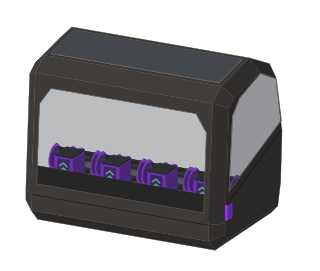
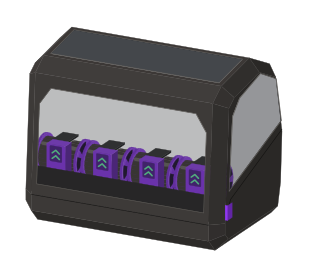
feat(unit-art): draw the Quattro Box front drive drums as the real ones
Each lane's front roller is a 60 mm black rubber drum the feeder straddles,
with a spoked purple flange at each outer end and a gap between lanes, set
where the spool rests on it. The feeder is a shallow block with its black cap
reaching back over the drum. kit.roller can now leave off its right flange.

Changed region(s): [[0.0938, 0.4723, 0.6562, 0.7085], [0.7188, 0.6199, 0.75, 0.7085]]

diff --git a/scripts/unit_art/units/quattro_box.py b/scripts/unit_art/units/quattro_box.py
@@ -4,6 +4,7 @@
 Proportions come from the open-source v2 design (Batalhoti/QuattroBox): its base, panel
 cut files and renders. 1.0 is 400 mm.
 """
+import math
 from pathlib import Path
 
 from .. import feeder, kit, spool
@@ -41,14 +42,22 @@ SPOOL_R = 0.25
 SPOOL_Y, SPOOL_Z = 156 * MM, 199 * MM + FOOT
 ROLLER_R = 20 * MM
 ROLLER_Z = 95 * MM + FOOT
-ROLLER_FRONT_Y, ROLLER_REAR_Y = SPOOL_Y - 60 * MM, SPOOL_Y + 60 * MM
-FEEDER_Y0, FEEDER_Y1 = 52 * MM, 98 * MM
-FEEDER_Z0, FEEDER_Z1 = 70 * MM + FOOT, 118 * MM + FOOT
+ROLLER_REAR_Y = SPOOL_Y + 60 * MM
+# The front drum is the drive roller: as tall as the feeder block that straddles it, and
+# placed so the spool rests on it.
+FRONT_R = 30 * MM
+FRONT_Z = 118 * MM + FOOT
+FRONT_Y = SPOOL_Y - ((SPOOL_R + FRONT_R) ** 2 - (SPOOL_Z - FRONT_Z) ** 2) ** 0.5
+# The feeder's front block stands before the drum; its black cap reaches back over the drum's top.
+FEEDER_Y0, FEEDER_Y1 = 22 * MM, 46 * MM
+CAP_Y1 = 80 * MM
+FEEDER_Z0, FEEDER_Z1 = 92 * MM + FOOT, 152 * MM + FOOT
 # The tray's lid stands on the feeder row.
-FEED_TOP = FEEDER_Z1
+FEED_TOP = 118 * MM + FOOT
 
 BODY, INSIDE, ACCENT, ACCENT_DARK, GLOW, GLASS = "#3b3836", "#1a1918", "#7b2fd0", "#4a1d84", "#62e6a0", "#2c2f34"
 ROLLER = "#1e1d1c"
+RUBBER = "#3d3733"
 EDGE = "#5d5a56"
 TRAY_PX_PER_UNIT = 46.2 / SPOOL_R
 _REPO = Path(__file__).resolve().parents[3]
@@ -126,20 +135,40 @@ def _rollers(sc, xc, y):
     kit.roller(sc, xc + half, xc + reach, y, ROLLER_Z, ROLLER_R, ROLLER, ACCENT, **rim)
 
 
+def _spokes(sc, x, y, z, r):
+    """The open spokes of a flange's outer face: dark windows between five arms."""
+    for k in range(5):
+        a0, a1 = 2 * math.pi * k / 5 + 0.22, 2 * math.pi * (k + 1) / 5 - 0.22
+        arc = [a0 + (a1 - a0) * i / 6 for i in range(7)]
+        pts = [(r * 0.9 * math.cos(a), r * 0.9 * math.sin(a)) for a in arc]
+        pts += [(r * 0.45 * math.cos(a), r * 0.45 * math.sin(a)) for a in reversed(arc)]
+        sc.poly([(x, y + a, z + b) for a, b in pts], "#1b0f2c")
+
+
+def _front_rollers(sc, xc, detail):
+    """One lane's drive drum: black rubber either side of its feeder, a purple flange at each outer end."""
+    half, reach, flange_w = 0.04, PITCH / 2 - 0.024, 0.012
+    rim = {"flange_k": 1.2, "flange_w": flange_w, "sheen": "#7a746e", "end_face": ACCENT, "end_hub": ACCENT_DARK, "solid": True}
+    kit.roller(sc, xc - reach, xc - half, FRONT_Y, FRONT_Z, FRONT_R, RUBBER, ACCENT, right_flange=False, **rim)
+    kit.roller(sc, xc + half, xc + reach, FRONT_Y, FRONT_Z, FRONT_R, RUBBER, ACCENT, left_flange=False, **rim)
+    if detail:
+        _spokes(sc, xc + reach + flange_w + 0.001, FRONT_Y, FRONT_Z, FRONT_R * 1.2)
+
+
 def _feeder(sc, xc, detail):
     """One lane's drive in front of its rollers: a purple block, a black cap and its LED button."""
     half = 0.046
     cap = 0.008
+    feeder.box(sc, xc - half + 0.008, xc + half - 0.008, FEEDER_Y0 + 0.006, CAP_Y1, FEEDER_Z1 - cap, FEEDER_Z1, "#202020")
     feeder.box(sc, xc - half, xc + half, FEEDER_Y0, FEEDER_Y1, FEEDER_Z0, FEEDER_Z1 - cap, ACCENT)
-    feeder.box(sc, xc - half + 0.004, xc + half - 0.004, FEEDER_Y0 + 0.006, FEEDER_Y1, FEEDER_Z1 - cap, FEEDER_Z1, "#202020")
     y = FEEDER_Y0 - 0.001
-    sc.poly(kit.rrect_front(xc - 0.03, xc + 0.03, FEEDER_Z0 + 0.03, FEEDER_Z1 - cap - 0.008, 0.006, y), ACCENT_DARK)
+    sc.poly(kit.rrect_front(xc - 0.03, xc + 0.03, FEEDER_Z0 + 0.062, FEEDER_Z1 - cap - 0.006, 0.006, y), ACCENT_DARK)
     if detail:
-        for dz in (0.0, 0.024):
-            z = FEEDER_Z0 + 0.048 + dz
+        for dz in (0.0, 0.026):
+            z = FEEDER_Z0 + 0.076 + dz
             sc.line([(xc - 0.018, y - 0.001, z), (xc, y - 0.001, z + 0.015), (xc + 0.018, y - 0.001, z)], GLOW, 0.007)
     else:
-        sc.poly(kit.rrect_front(xc - 0.018, xc + 0.018, FEEDER_Z0 + 0.045, FEEDER_Z1 - 0.022, 0.004, y - 0.001), GLOW)
+        sc.poly(kit.rrect_front(xc - 0.018, xc + 0.018, FEEDER_Z0 + 0.075, FEEDER_Z1 - 0.02, 0.004, y - 0.001), GLOW)
 
 
 def _strip(sc, cam, edge, x0, x1, hole=None, to3=None):
@@ -211,7 +240,7 @@ def draw_art(sc, colors, tier):
 
     sc.layer = "front"
     for xc in centers():
-        _rollers(sc, xc, ROLLER_FRONT_Y)
+        _front_rollers(sc, xc, detail)
     for xc in centers():
         _feeder(sc, xc, detail)
     # The base's slanted front under the feeder row, inside the lid.

diff --git a/scripts/unit_art/kit.py b/scripts/unit_art/kit.py
@@ -202,8 +202,8 @@ def _roller_end(sc, x, y, z, r, face, hub):
         sc.poly([(x, a, b) for a, b in circle_yz(y, z, r * 0.42)], hub)
 
 
-def roller(sc, x0, x1, y, z, r, color, flange, flange_k=1.18, flange_w=0.016, left_flange=True, sheen=None, end_face=None, end_hub=None, solid=False):
-    """A drum along x, flanged at its right end and, unless told not to, its left.
+def roller(sc, x0, x1, y, z, r, color, flange, flange_k=1.18, flange_w=0.016, left_flange=True, sheen=None, end_face=None, end_hub=None, solid=False, right_flange=True):
+    """A drum along x, flanged at either end; each flange can be left off.
 
     sheen is the colour of a highlight along the drum's lit shoulder, for a colour too dark
     to show its curve by shading alone. end_face fills each flange inside its edge,
@@ -221,6 +221,9 @@ def roller(sc, x0, x1, y, z, r, color, flange, flange_k=1.18, flange_w=0.016, le
     sc.extrude_x(ring, x0, x1, color, 1.0, front=not solid)
     if sheen:
         sc.line([(x0 + r * 0.1, y - r * 0.6, z + r * 0.8), (x1 - r * 0.1, y - r * 0.6, z + r * 0.8)], sheen, r * 0.2, 0.75)
+    if not right_flange:
+        sc.poly([(x1, a, b) for a, b in ring], shift(color, 10))
+        return
     sc.extrude_x(edge, x1, x1 + flange_w, flange, 1.0, front=not solid)
     sc.poly([(x1 + flange_w, a, b) for a, b in edge], shift(flange, 18))
     if end_face:
